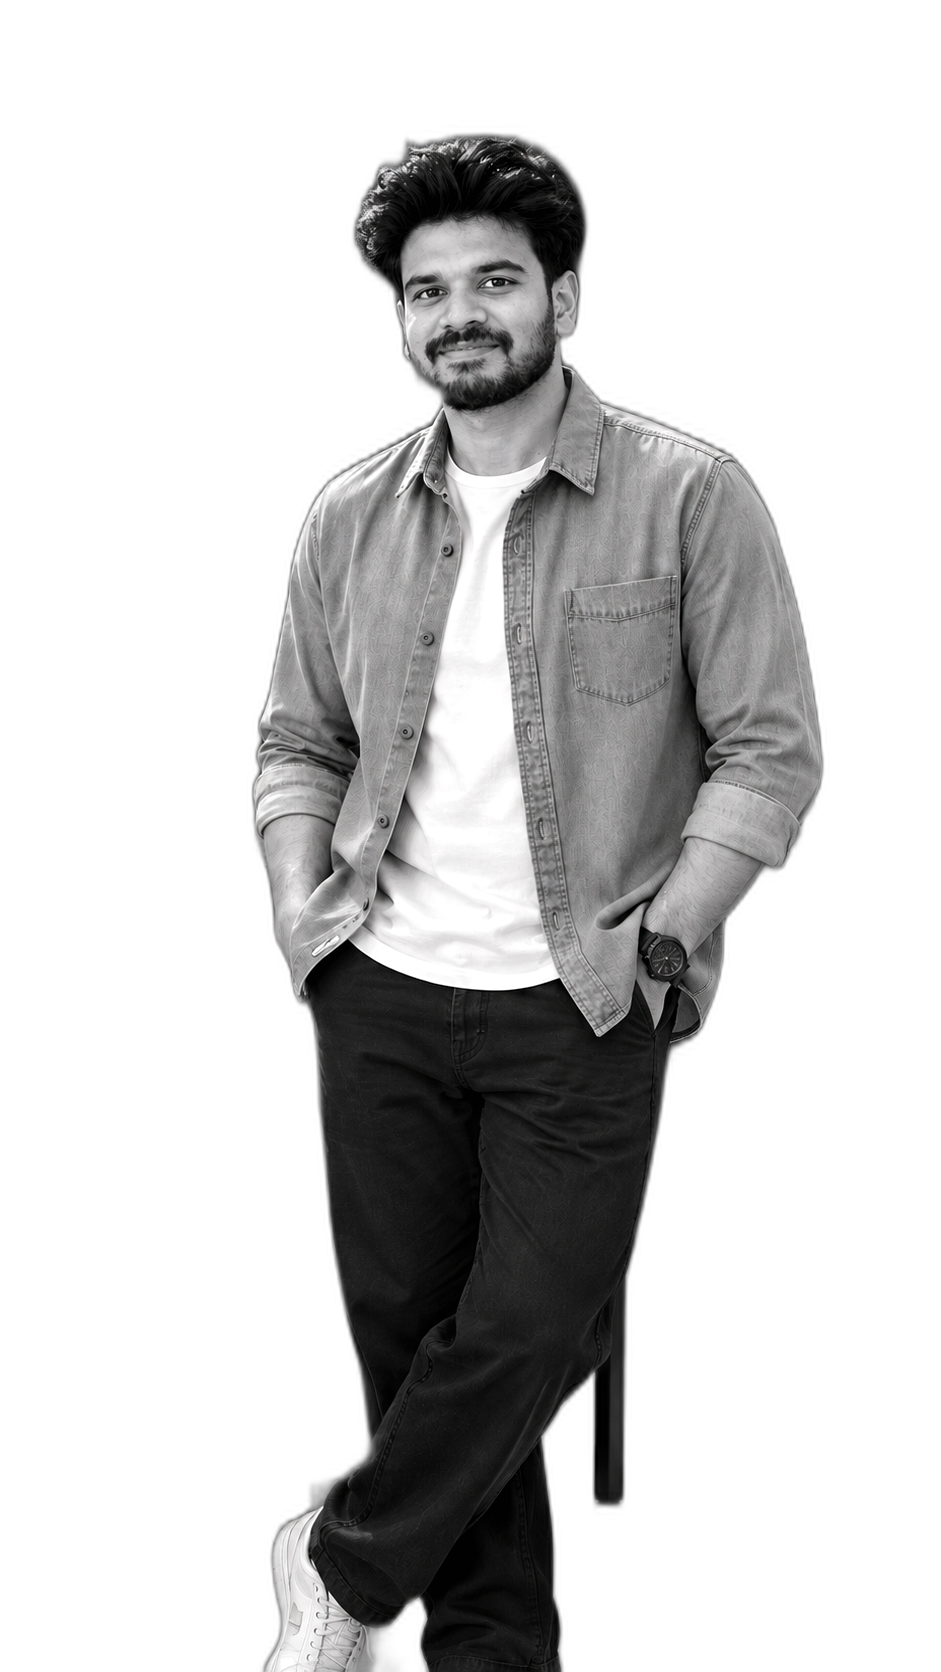
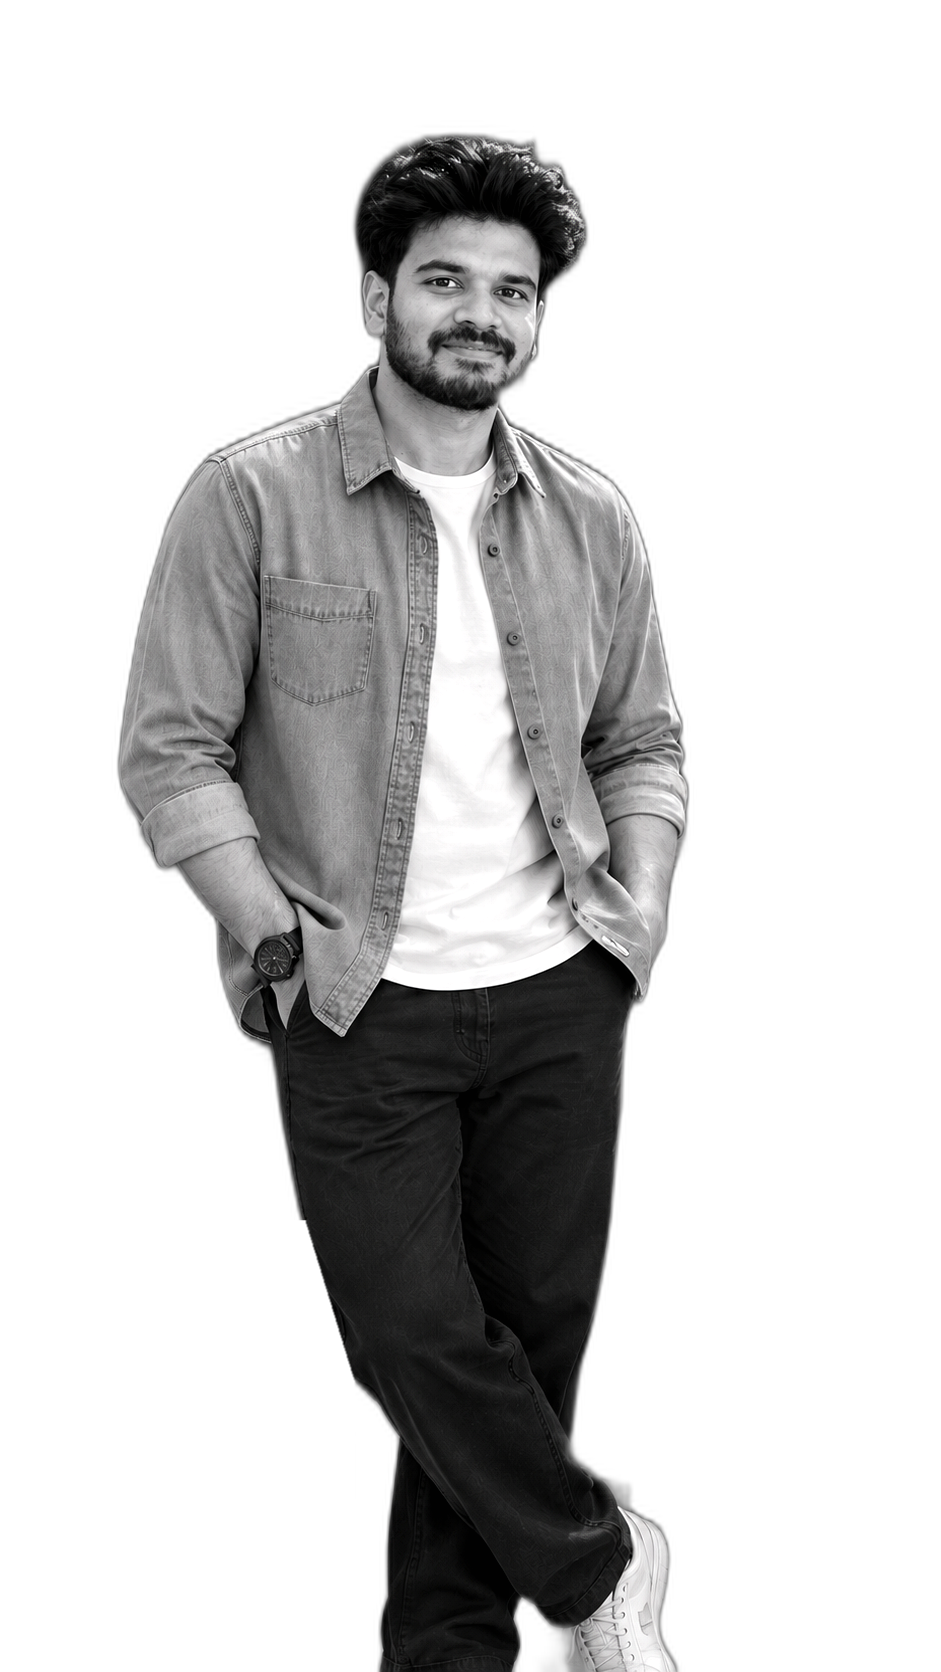
Refine Hand-to-T interaction and add smooth scroll exit animation to Hero

Changed region(s): [[0.1233, 0.0622, 0.8937, 1.0], [0.4623, 0.5909, 0.5239, 0.622]]

diff --git a/animations.js b/animations.js
@@ -202,38 +202,26 @@
       scrollTrigger: {
         trigger: heroSection,
         start: 'top top',
-        end: isMobile ? 'bottom 25%' : 'bottom 12%',
-        scrub: isMobile ? true : 0.6,
+        end: 'bottom top',
+        scrub: isMobile ? true : 0.7,
         invalidateOnRefresh: true,
       }
     });
 
-    // Entire unified composition (ANSHAD, DIGITAL, Person, Center Content) fades & recedes together
+    // Unified composition (ANSHAD, DIGITAL, Person, Left Motto, Right Services, Center Content)
+    // fades synchronously: 100% → 80% → 60% → 40% → 20% → smoothly disappears
     heroScrollTl.to(heroScene, {
       opacity: 0,
-      y: isMobile ? -35 : -65,
-      scale: isMobile ? 0.97 : 0.94,
-      ease: 'power1.inOut',
+      y: isMobile ? -30 : -50,
+      scale: isMobile ? 0.98 : 0.95,
+      ease: 'none',
     }, 0);
 
-    // Secondary UI (side labels, bottom indicators) dissolve smoothly early in the scroll
-    const heroFaders = document.querySelectorAll(
-      '.hero-side-label-left, .hero-side-label-right, .hero-scroll-down, .hero-availability'
-    );
-    if (heroFaders.length) {
-      heroScrollTl.to(heroFaders, {
-        opacity: 0,
-        y: isMobile ? -15 : -25,
-        ease: 'power1.in',
-        duration: 0.5,
-      }, 0);
-    }
-
-    // Subtle atmospheric glow dimming as user leaves the room
+    // Atmospheric dimming as user scrolls to the next section
     const heroAtmosphere = document.querySelectorAll('.hero-ambient-glow, .hero-floor-reflection');
     if (heroAtmosphere.length) {
       heroScrollTl.to(heroAtmosphere, {
-        opacity: 0.35,
+        opacity: 0.25,
         ease: 'none',
       }, 0);
     }

diff --git a/style.css b/style.css
@@ -68,7 +68,7 @@ body {
   justify-content: center;
   pointer-events: none;
   z-index: 10;
-  padding-bottom: clamp(5.5rem, 11vh, 7.5rem);
+  padding-bottom: clamp(9.5rem, 18.5vh, 14rem);
 }
 
 .hero-text-anshad {
